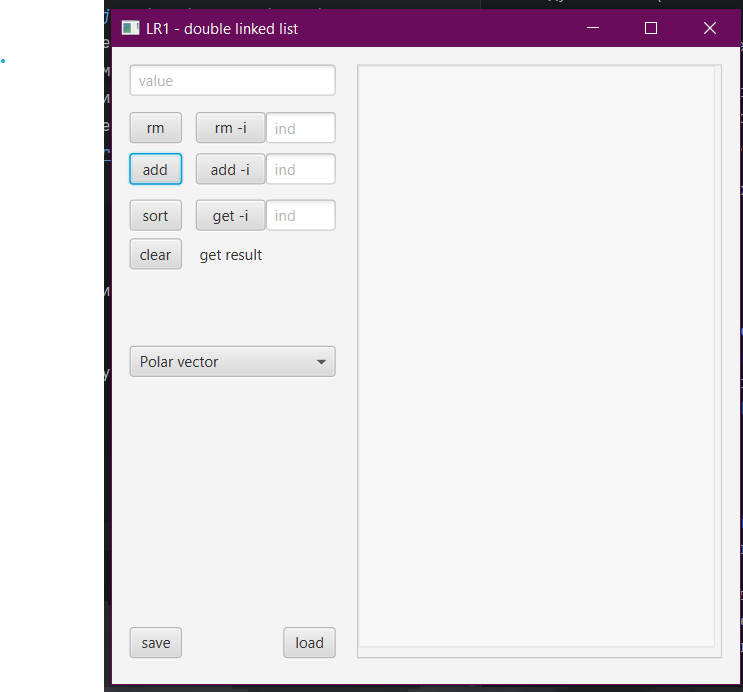
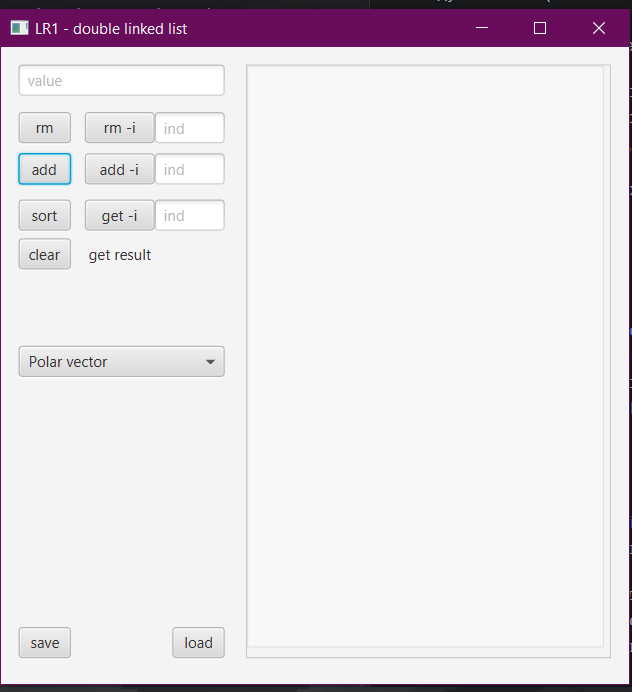
doc: исправлена картинка

diff --git a/README.md b/README.md
@@ -60,7 +60,7 @@
 * сохранение/загрузка СД в файл
 
 <p align="center">
-  <img src="images/CleanApp.png" alt="Только запущенное приложение" width="500">
+  <img src="images/CleanApp.png" alt="Только запущенное приложение" width="400">
 </p>
 
 <p align="center">
